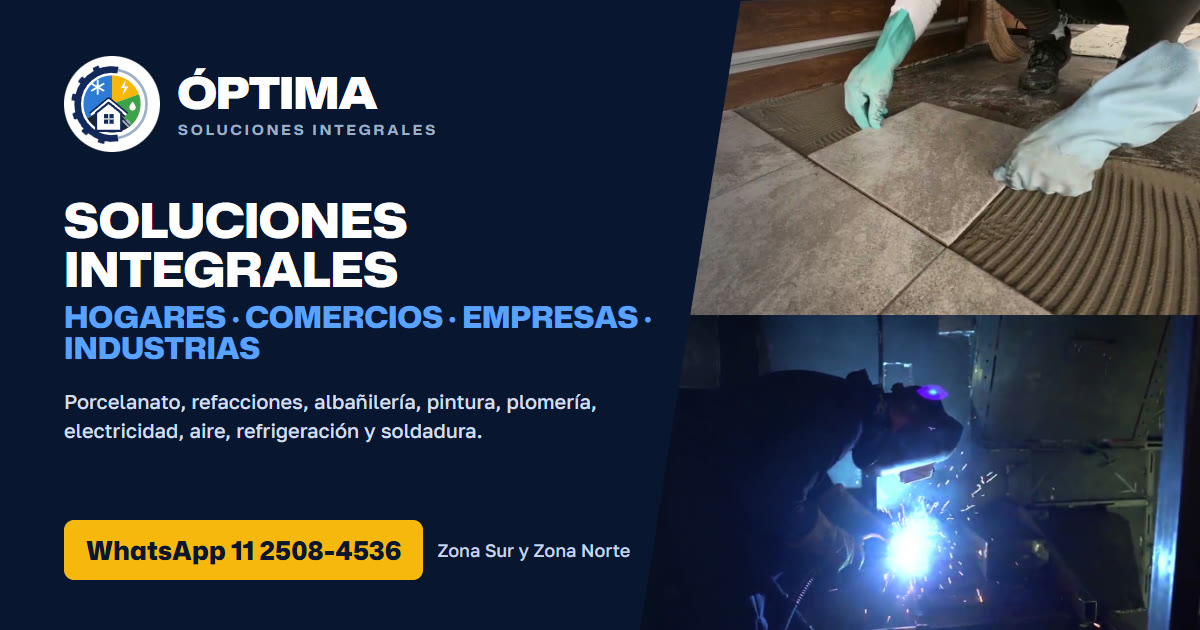
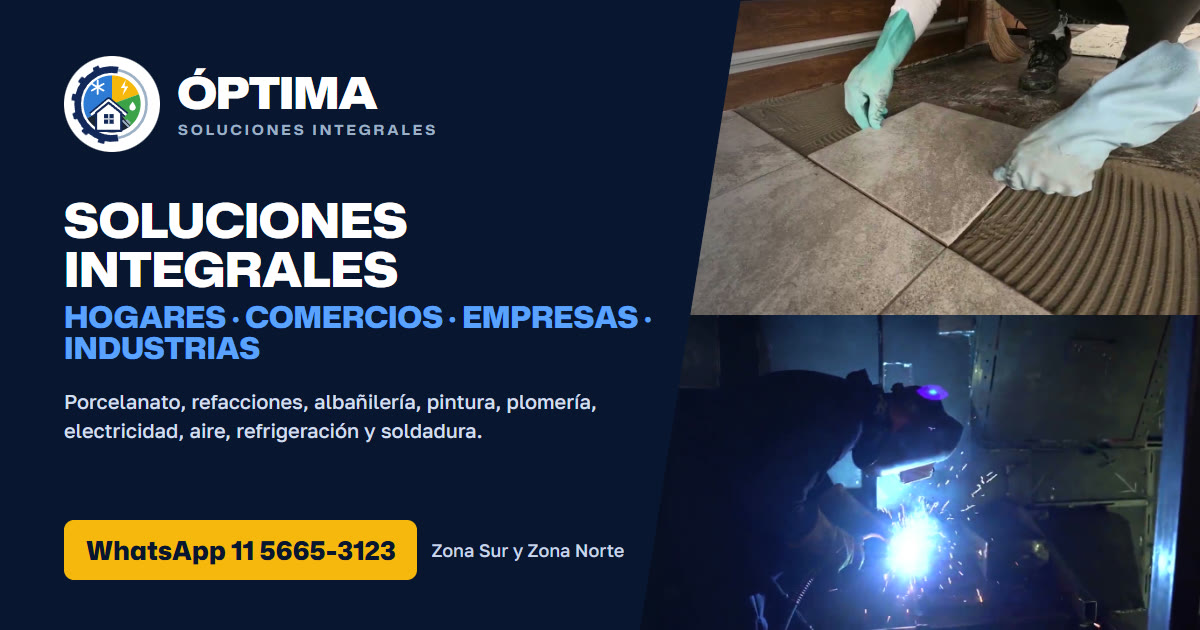
fix(demooptima): WhatsApp del cliente 11 5665-3123

Changed region(s): [[0.2158, 0.8143, 0.5242, 0.9349]]

diff --git a/demooptima/index.html b/demooptima/index.html
@@ -47,7 +47,7 @@
     "url": "https://optimasoluciones.tupaginaya.com.ar/",
     "image": "https://tusitiowebya.github.io/demooptima/og-image.jpg",
     "logo": "https://tusitiowebya.github.io/demooptima/img/favicon-512.png",
-    "telephone": "+54 9 11 2508-4536",
+    "telephone": "+54 9 11 5665-3123",
     "address": { "@type": "PostalAddress", "addressRegion": "Buenos Aires", "addressCountry": "AR" },
     "areaServed": [
       { "@type": "AdministrativeArea", "name": "Zona Sur del Gran Buenos Aires" },
@@ -172,7 +172,7 @@
           <p class="hero__values">Profesionalismo <i>•</i> Calidad <i>•</i> Compromiso</p>
           <p class="hero__lead">Diez oficios con un solo equipo: del porcelanato y la albañilería a la electricidad, el aire acondicionado y la refrigeración. Trabajamos en <strong>Zona Sur y Zona Norte</strong>, con garantía en todos los trabajos.</p>
           <div class="hero__ctas">
-            <a class="btn btn--yellow" href="https://wa.me/5491125084536?text=Hola%20%C3%93ptima!%20Quiero%20pedir%20un%20presupuesto." target="_blank" rel="noopener" data-wa><svg class="ico-fill"><use href="#i-wa"/></svg>Solicitar presupuesto</a>
+            <a class="btn btn--yellow" href="https://wa.me/5491156653123?text=Hola%20%C3%93ptima!%20Quiero%20pedir%20un%20presupuesto." target="_blank" rel="noopener" data-wa><svg class="ico-fill"><use href="#i-wa"/></svg>Solicitar presupuesto</a>
             <a class="btn btn--ghost" href="#servicios">Nuestros servicios <span aria-hidden="true">›</span></a>
           </div>
         </div>
@@ -272,8 +272,8 @@
             </div>
             <label class="ficha__lbl" for="detalle">Contanos en una línea (opcional)</label>
             <input class="ficha__input" id="detalle" type="text" maxlength="160" placeholder="Ej.: baño de 2×2, cambiar caños y poner porcelanato">
-            <a class="btn btn--yellow btn--block" id="pedidoBtn" href="https://wa.me/5491125084536" target="_blank" rel="noopener"><svg class="ico-fill"><use href="#i-wa"/></svg><span id="pedidoBtnTxt">Elegí al menos un servicio</span></a>
-            <p class="ficha__note">Presupuesto sin compromiso. Te responde el equipo de Óptima al 11 2508-4536.</p>
+            <a class="btn btn--yellow btn--block" id="pedidoBtn" href="https://wa.me/5491156653123" target="_blank" rel="noopener"><svg class="ico-fill"><use href="#i-wa"/></svg><span id="pedidoBtnTxt">Elegí al menos un servicio</span></a>
+            <p class="ficha__note">Presupuesto sin compromiso. Te responde el equipo de Óptima al 11 5665-3123.</p>
           </div>
         </div>
       </div>
@@ -305,7 +305,7 @@
           <h2>Empresas e industrias</h2>
           <p>Tenemos capacidad para proyectos de gran escala, contratos de mantenimiento y para atender la demanda de tu empresa con eficiencia y profesionalismo: refrigeración comercial e industrial, tableros y cableado, soldadura de estructuras y mantenimiento edilicio.</p>
           <ul class="duo__list"><li>Contratos de mantenimiento</li><li>Refrigeración comercial e industrial</li><li>Electricidad y tableros</li><li>Soldadura y estructuras</li></ul>
-          <a class="btn btn--light" href="https://wa.me/5491125084536?text=Hola%20%C3%93ptima!%20Escribo%20por%20una%20empresa%20y%20quiero%20consultar%20por%20un%20servicio%20o%20contrato%20de%20mantenimiento." target="_blank" rel="noopener">Más información</a>
+          <a class="btn btn--light" href="https://wa.me/5491156653123?text=Hola%20%C3%93ptima!%20Escribo%20por%20una%20empresa%20y%20quiero%20consultar%20por%20un%20servicio%20o%20contrato%20de%20mantenimiento." target="_blank" rel="noopener">Más información</a>
         </div>
       </article>
       <article class="duo__card duo__card--soc" id="social">
@@ -314,7 +314,7 @@
           <p class="duo__num">02</p>
           <h2>Proyecto social</h2>
           <p>Trabajamos para construir un <strong>Centro de Formación Social</strong> y un <strong>Templo Espiritual</strong>, donde más personas puedan capacitarse, encontrar apoyo y crecer en valores.</p>
-          <a class="btn btn--light" href="https://wa.me/5491125084536?text=Hola%20%C3%93ptima!%20Quiero%20conocer%20m%C3%A1s%20sobre%20el%20proyecto%20social." target="_blank" rel="noopener">Conocé nuestro proyecto</a>
+          <a class="btn btn--light" href="https://wa.me/5491156653123?text=Hola%20%C3%93ptima!%20Quiero%20conocer%20m%C3%A1s%20sobre%20el%20proyecto%20social." target="_blank" rel="noopener">Conocé nuestro proyecto</a>
         </div>
       </article>
     </section>
@@ -371,7 +371,7 @@
           <h2>¿Tenés un proyecto?</h2>
           <p>Contactanos hoy y recibí asesoramiento sin cargo.</p>
         </div>
-        <a class="cta__phone" href="https://wa.me/5491125084536?text=Hola%20%C3%93ptima!%20Quiero%20hacer%20una%20consulta." target="_blank" rel="noopener" data-wa><svg class="ico-fill"><use href="#i-wa"/></svg>11 2508-4536</a>
+        <a class="cta__phone" href="https://wa.me/5491156653123?text=Hola%20%C3%93ptima!%20Quiero%20hacer%20una%20consulta." target="_blank" rel="noopener" data-wa><svg class="ico-fill"><use href="#i-wa"/></svg>11 5665-3123</a>
         <a class="btn btn--yellow" href="#pedido">Solicitar presupuesto</a>
       </div>
     </section>
@@ -380,7 +380,7 @@
   <footer class="foot">
     <div class="wrap">
       <ul class="foot__data">
-        <li><svg viewBox="0 0 24 24" class="ico"><path d="M5 4h4l2 5-2.5 1.5a11 11 0 0 0 5 5L15 13l5 2v4a2 2 0 0 1-2 2A16 16 0 0 1 3 6a2 2 0 0 1 2-2z"/></svg><a href="tel:+5491125084536">11 2508-4536</a></li>
+        <li><svg viewBox="0 0 24 24" class="ico"><path d="M5 4h4l2 5-2.5 1.5a11 11 0 0 0 5 5L15 13l5 2v4a2 2 0 0 1-2 2A16 16 0 0 1 3 6a2 2 0 0 1 2-2z"/></svg><a href="tel:+5491156653123">11 5665-3123</a></li>
         <li><svg viewBox="0 0 24 24" class="ico"><circle cx="12" cy="12" r="9"/><path d="M12 7v5l3 2"/></svg>De 7 a 20 h</li>
         <li><svg viewBox="0 0 24 24" class="ico"><path d="M12 21s-7-6.2-7-11.5a7 7 0 0 1 14 0C19 14.8 12 21 12 21z"/><circle cx="12" cy="9.5" r="2.5"/></svg>Zona Sur y Zona Norte · Buenos Aires</li>
         <li><a href="https://www.facebook.com/profile.php?id=61575787191053" target="_blank" rel="noopener">Facebook</a> · <a href="https://www.tiktok.com/@refacciones.eyd" target="_blank" rel="noopener">TikTok</a></li>
@@ -392,7 +392,7 @@
     </div>
   </footer>
 
-  <a class="wa-float" id="waFloat" href="https://wa.me/5491125084536?text=Hola%20%C3%93ptima!%20Quiero%20hacer%20una%20consulta." target="_blank" rel="noopener" aria-label="Escribinos por WhatsApp"><svg class="ico-fill"><use href="#i-wa"/></svg></a>
+  <a class="wa-float" id="waFloat" href="https://wa.me/5491156653123?text=Hola%20%C3%93ptima!%20Quiero%20hacer%20una%20consulta." target="_blank" rel="noopener" aria-label="Escribinos por WhatsApp"><svg class="ico-fill"><use href="#i-wa"/></svg></a>
 
   <div class="lightbox" id="lightbox" hidden>
     <button type="button" class="lightbox__close" aria-label="Cerrar">×</button>

diff --git a/demooptima/script.js b/demooptima/script.js
@@ -2,7 +2,7 @@
 (function () {
   'use strict';
 
-  var WA = '5491125084536';
+  var WA = '5491156653123';
   var params = new URLSearchParams(location.search);
   if (params.has('qa')) document.documentElement.classList.add('qa');
 
